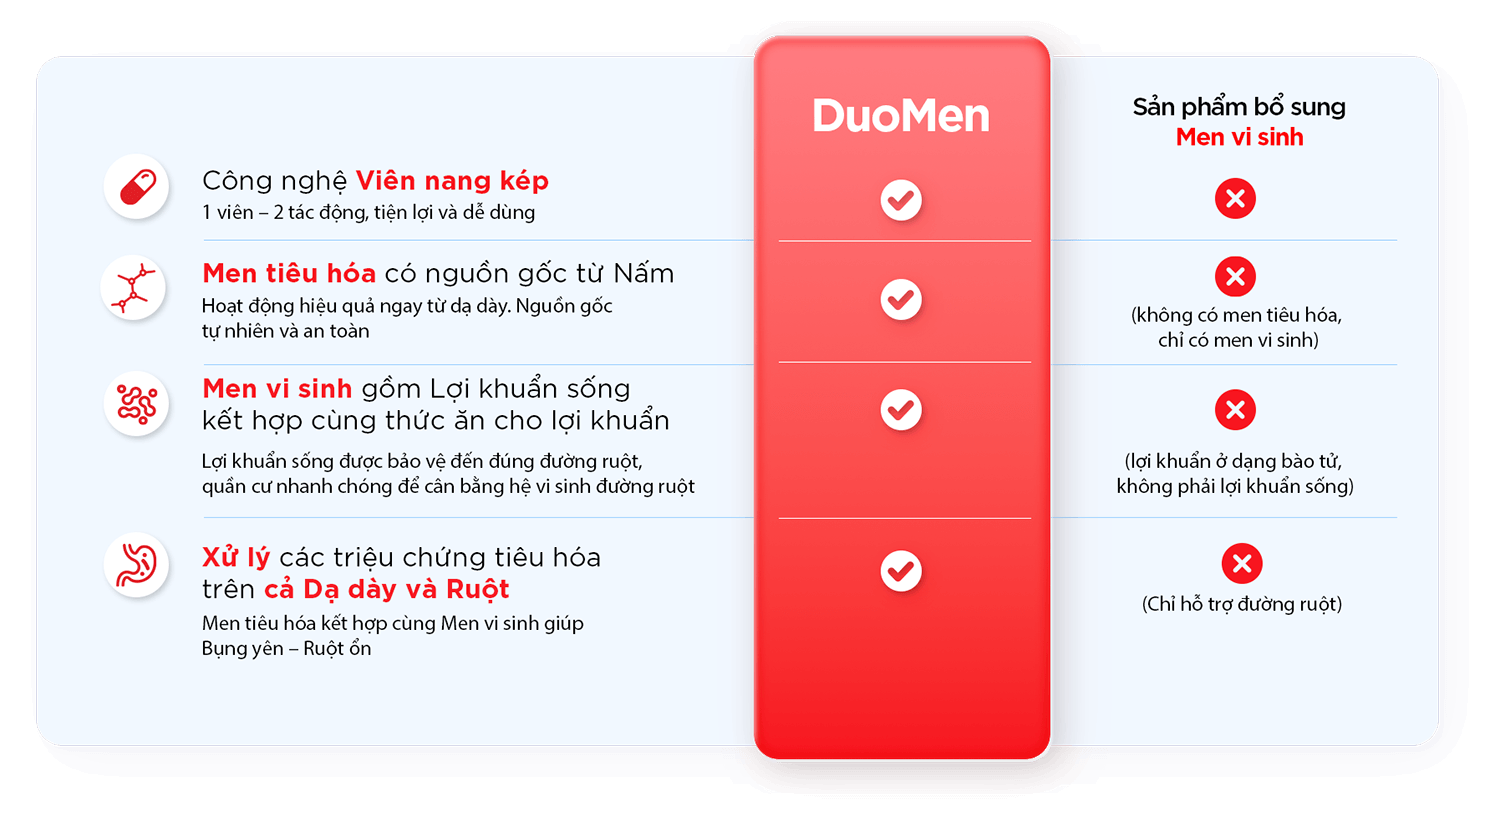
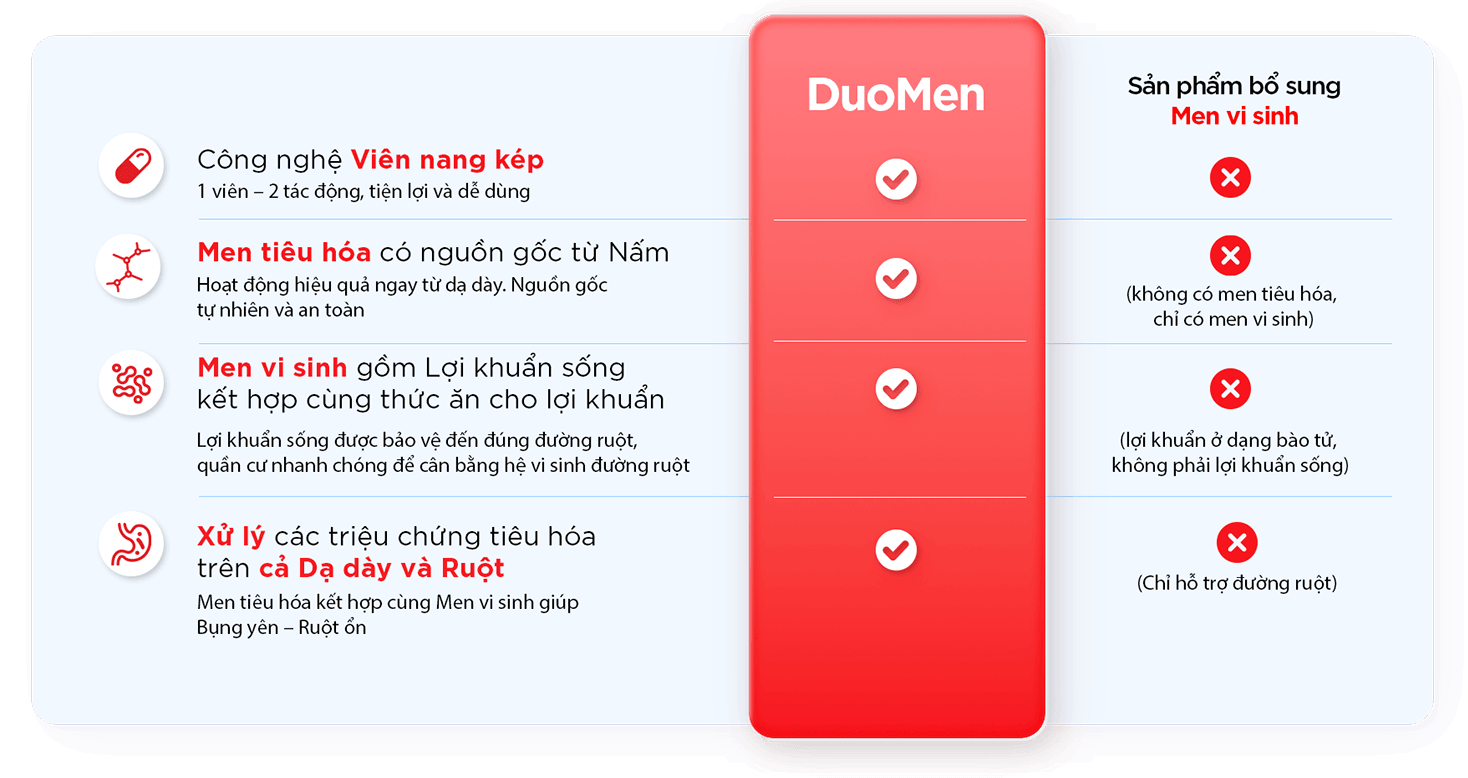
update page

diff --git a/index.html b/index.html
@@ -33,12 +33,12 @@
     <link rel="preconnect" href="https://fonts.googleapis.com">
     <link rel="preconnect" href="https://fonts.gstatic.com" crossorigin>
     <link href="https://fonts.googleapis.com/css2?family=Inter:ital,opsz,wght@0,14..32,100..900;1,14..32,100..900&display=swap" rel="stylesheet">
-    <link href="css/style.css?v=14" rel="stylesheet" media="screen" >
+    <link href="css/style.css?v=15" rel="stylesheet" media="screen" >
 </head>
 <body>
     <header class="page-header">
         <div class="main-menu">
-            <div class="logo-mb md-mobile"><img src="./images/logo-mb.png?v=14" alt=""></div>
+            <div class="logo-mb md-mobile"><img src="./images/logo-mb.png?v=15" alt=""></div>
             <div class="toggle-menu md-mobile">
                 <span></span>
                 <span></span>
@@ -57,24 +57,24 @@
         <div class="section-1">
             <div class="banner">
                 <div class="md-card card-back">
-                    <img src="./images/box-1.png?v=14" alt="" class="md-desktop">
-                    <img src="./images/box-1-mb.png?v=14" alt="" class="md-mobile">
+                    <img src="./images/box-1.png?v=15" alt="" class="md-desktop">
+                    <img src="./images/box-1-mb.png?v=15" alt="" class="md-mobile">
                     <div class="md-ico-1">
-                        <img src="./images/ico-1.png?v=14" alt="" class="ico-1">
-                        <img src="./images/ico-2.png?v=14" alt="" class="ico-2">
-                        <img src="./images/ico-3.png?v=14" alt="" class="ico-3">
-                        <img src="./images/ico-4.png?v=14" alt="" class="ico-4">
-                        <img src="./images/ico-5.png?v=14" alt="" class="ico-5">
+                        <img src="./images/ico-1.png?v=15" alt="" class="ico-1">
+                        <img src="./images/ico-2.png?v=15" alt="" class="ico-2">
+                        <img src="./images/ico-3.png?v=15" alt="" class="ico-3">
+                        <img src="./images/ico-4.png?v=15" alt="" class="ico-4">
+                        <img src="./images/ico-5.png?v=15" alt="" class="ico-5">
                     </div>
                 </div>
                 <div class="md-card card-front">
-                    <img src="./images/box-2.png?v=14" alt="" class="md-desktop">
-                    <img src="./images/box-2-mb.png?v=14" alt="" class="md-mobile"> 
+                    <img src="./images/box-2.png?v=15" alt="" class="md-desktop">
+                    <img src="./images/box-2-mb.png?v=15" alt="" class="md-mobile"> 
                     <div class="md-ico-1">
-                        <img src="./images/ico-6.png?v=14" alt="" class="ico-6">
-                        <img src="./images/ico-7.png?v=14" alt="" class="ico-7">
-                        <img src="./images/ico-8.png?v=14" alt="" class="ico-8">
-                        <img src="./images/ico-9.png?v=14" alt="" class="ico-9">
+                        <img src="./images/ico-6.png?v=15" alt="" class="ico-6">
+                        <img src="./images/ico-7.png?v=15" alt="" class="ico-7">
+                        <img src="./images/ico-8.png?v=15" alt="" class="ico-8">
+                        <img src="./images/ico-9.png?v=15" alt="" class="ico-9">
                     </div>
                 </div>
                 
@@ -83,50 +83,50 @@
         </div>
         
         <div class="section-5">
-            <img src="./images/bg-banner-2.jpg?v=14" alt="" class="md-desktop">
-            <img src="./images/bg-banner-mb.jpg?v=14" alt="" class="md-mobile">
-            <img src="./images/img-banner.png?v=14" alt="" class="img-banner md-desktop">
-            <img src="./images/tia-sang.png?v=14" alt="" class="ani-tiasang">
+            <img src="./images/bg-banner-2.jpg?v=15" alt="" class="md-desktop">
+            <img src="./images/bg-banner-mb.jpg?v=15" alt="" class="md-mobile">
+            <img src="./images/img-banner.png?v=15" alt="" class="img-banner md-desktop">
+            <img src="./images/tia-sang.png?v=15" alt="" class="ani-tiasang">
             <div class="text-3">
-                <img src="./images/text-3.png?v=14" alt="">
+                <img src="./images/text-3.png?v=15" alt="">
                 <div class="shine-sweep"></div>
             </div>
             <div class="bot-content">
                 <div class="md-hop-thuoc">
-                    <img src="./images/hop-thuoc.png?v=14" alt="" class="hop-thuoc">
-                    <img src="./images/vien-thuoc-4.png?v=14" alt="" class="vien-thuoc">
+                    <img src="./images/hop-thuoc.png?v=15" alt="" class="hop-thuoc">
+                    <img src="./images/vien-thuoc-4.png?v=15" alt="" class="vien-thuoc">
                     <a class="ctn-popup" data-fancybox="" data-src="#popup-1" href="javascript:;">
-                        <img src="./images/btn-popup.png?v=14" alt="">
+                        <img src="./images/btn-popup.png?v=15" alt="">
                     </a>
                     <div class="md-popup-1 md-popup" id="popup-1">
-                        <img src="./images/img-popup.jpg?v=14" alt="">
+                        <img src="./images/img-popup.jpg?v=15" alt="">
                     </div>
                 </div>
                 
-                <img src="./images/logo-1.png?v=14" alt="" class="sc5-logo-1 wow fadeInRight" data-wow-delay="0.5s">
-                <img src="./images/logo-2.png?v=14" alt="" class="sc5-logo-2 wow fadeInLeft" data-wow-delay="1s">
+                <img src="./images/logo-1.png?v=15" alt="" class="sc5-logo-1 wow fadeInRight" data-wow-delay="0.5s">
+                <img src="./images/logo-2.png?v=15" alt="" class="sc5-logo-2 wow fadeInLeft" data-wow-delay="1s">
             </div>
         </div>
         <div class="section-2" id="targetForm">
             
             <div class="md-content">
                 <div class="sc2-img-6">
-                    <img src="./images/vien-thuoc-5.png?v=14" alt="" class="img-vienthuoc-front">
-                    <img src="./images/vien-thuoc.png?v=14" alt="" class="img-duongvien">
-                    <img src="./images/text-1.png?v=14" alt="" class="text6-img-1">
-                    <img src="./images/text-2.png?v=14" alt="" class="text6-img-2">
+                    <img src="./images/vien-thuoc-5.png?v=15" alt="" class="img-vienthuoc-front">
+                    <img src="./images/vien-thuoc.png?v=15" alt="" class="img-duongvien">
+                    <img src="./images/text-1.png?v=15" alt="" class="text6-img-1">
+                    <img src="./images/text-2.png?v=15" alt="" class="text6-img-2">
                 </div>
-                <img src="./images/vien-thuoc-2.png?v=14" alt="" class="sc2-img-1">
-                <img src="./images/vien-thuoc-3.png?v=14" alt="" class="sc2-img-5">
-                <img src="./images/bg-duongruot-2.jpg?v=14" alt="" class="sc2-img-2 md-desktop">
-                <img src="./images/bg-duongruot-mb.jpg?v=14" alt="" class="sc2-img-2 md-mobile">
-                <img src="./images/img-duongruot.png?v=14" alt="" class="img-duongruot md-desktop">
-                <img src="./images/vien-thuoc-4.png?v=14" alt="" class="vien-thuoc-4">
-                <img src="./images/ico-vien-thuoc.png?v=14" alt="" class="ico-vien-thuoc">
-                <img src="./images/sc2-img-3.png?v=14" alt="" class="sc2-img-3 md-desktop">
-                <img src="./images/sc2-img-3-mb.png?v=14" alt="" class="sc2-img-3 md-mobile">
-                 <img src="./images/sc2-img-4.png?v=14" alt="" class="sc2-img-4 md-desktop">
-                <img src="./images/sc2-img-4-mb.png?v=14" alt="" class="sc2-img-4 md-mobile">
+                <img src="./images/vien-thuoc-2.png?v=15" alt="" class="sc2-img-1">
+                <img src="./images/vien-thuoc-3.png?v=15" alt="" class="sc2-img-5">
+                <img src="./images/bg-duongruot-2.jpg?v=15" alt="" class="sc2-img-2 md-desktop">
+                <img src="./images/bg-duongruot-mb.jpg?v=15" alt="" class="sc2-img-2 md-mobile">
+                <img src="./images/img-duongruot.png?v=15" alt="" class="img-duongruot md-desktop">
+                <img src="./images/vien-thuoc-4.png?v=15" alt="" class="vien-thuoc-4">
+                <img src="./images/ico-vien-thuoc.png?v=15" alt="" class="ico-vien-thuoc">
+                <img src="./images/sc2-img-3.png?v=15" alt="" class="sc2-img-3 md-desktop">
+                <img src="./images/sc2-img-3-mb.png?v=15" alt="" class="sc2-img-3 md-mobile">
+                 <img src="./images/sc2-img-4.png?v=15" alt="" class="sc2-img-4 md-desktop">
+                <img src="./images/sc2-img-4-mb.png?v=15" alt="" class="sc2-img-4 md-mobile">
                 <div class="md-col">
                     <div class="btn-sc2-1 show-btn share-btn" id="shareBtn">
                         <span class="text-share">Tiêu hóa chất béo</span>
@@ -193,8 +193,8 @@
                     </div>
                     <div class="md-content wow fadeInUp" data-wow-delay="0.7s">
                         <div class="sc3-img-1">
-                            <img src="./images/img-1.png?v=14" alt="" class="md-desktop ">
-                            <img src="./images/img-1-mb.png?v=14" alt="" class="md-mobile">
+                            <img src="./images/img-1.png?v=15" alt="" class="md-desktop ">
+                            <img src="./images/img-1-mb.png?v=15" alt="" class="md-mobile">
                             <!-- <div class="shine-sweep"></div> -->
                         </div>
                         
@@ -212,7 +212,7 @@
                     <div class="md-content">
                         <div class="md-col clearfix wow fadeInRight" data-wow-delay="0.5s">
                             <div class="left-col">
-                                <img src="./images/img-2.png?v=14" alt="">
+                                <img src="./images/img-2.png?v=15" alt="">
                             </div>
                             <div class="right-col">
                                 <div class="how-to-use">
@@ -225,7 +225,7 @@
                         </div>
                         <div class="md-col md-col-2 clearfix wow fadeInLeft" data-wow-delay="0.5s">
                             <div class="left-col">
-                                <img src="./images/img-3.png?v=14" alt="">
+                                <img src="./images/img-3.png?v=15" alt="">
                             </div>
                             <div class="right-col">
                                 <div class="how-to-use">
@@ -281,7 +281,7 @@
 
 
 
-                        <button class="show-more-btn" id="showMoreBtn"><img src="./images/ico-showmore.png?v=14" alt=""></button>
+                        <button class="show-more-btn" id="showMoreBtn"><img src="./images/ico-showmore.png?v=15" alt=""></button>
 
                     </div>
 
@@ -295,15 +295,15 @@
         <div class="main-content">
           
           <div id="frame-duoc-pham" class="ai-chat-container">
-             <div class="close-all-ai"><img src="./images/ico-close.png?v=14" alt=""></div>
+             <div class="close-all-ai"><img src="./images/ico-close.png?v=15" alt=""></div>
             <iframe src="https://web.e-pharmacy.vn/start-call?ref=duomen" allow="camera; microphone; display-capture" loading="lazy"></iframe>
           </div>
           <div id="frame-tro-ly" class="ai-chat-container">
-             <div class="close-all-ai"><img src="./images/ico-close.png?v=14" alt=""></div>
+             <div class="close-all-ai"><img src="./images/ico-close.png?v=15" alt=""></div>
             <iframe src="https://web.e-pharmacy.vn/ai-chat?ref=duomen" loading="lazy"></iframe>
           </div>
           <div id="frame-tu-van" class="ai-chat-container">
-             <div class="close-all-ai"><img src="./images/ico-close.png?v=14" alt=""></div>
+             <div class="close-all-ai"><img src="./images/ico-close.png?v=15" alt=""></div>
             <iframe src="https://web.e-pharmacy.vn/teleconsult?ref=duomen" loading="lazy"></iframe>
           </div>
 
@@ -314,27 +314,27 @@
     </div>
     <div class="md-ai-bot">
         <div class="ctn-button ctn-button-1 ai-btn" data-target="frame-tu-van">
-            <img src="./images/ctn-button-1.png?v=14" alt="" class="md-desktop">
-             <img src="./images/ctn-button-1-mb.png?v=14" alt="" class="md-mobile">
+            <img src="./images/ctn-button-1.png?v=15" alt="" class="md-desktop">
+             <img src="./images/ctn-button-1-mb.png?v=15" alt="" class="md-mobile">
         </div>
         
          <div class="ctn-button ctn-button-3 ai-btn" data-target="frame-duoc-pham">
-            <img src="./images/ctn-button-3.png?v=14" alt="" class="md-desktop">
-            <img src="./images/ctn-button-2-mb.png?v=14" alt="" class="md-mobile">
+            <img src="./images/ctn-button-3.png?v=15" alt="" class="md-desktop">
+            <img src="./images/ctn-button-2-mb.png?v=15" alt="" class="md-mobile">
         </div>
         <div class="ctn-button ctn-button-2 ai-btn"  data-target="frame-tro-ly">
-            <img src="./images/ctn-button-2.png?v=14" alt="" class="md-desktop">
-            <img src="./images/ctn-button-3-mb.png?v=14" alt="" class="md-mobile">
+            <img src="./images/ctn-button-2.png?v=15" alt="" class="md-desktop">
+            <img src="./images/ctn-button-3-mb.png?v=15" alt="" class="md-mobile">
         </div>
     </div>
     <footer class="footer clearfix">
     	<div class="top-footer">
             <div class="content-banner wow fadeInUp" data-wow-delay="0.5s">
-                <img src="./images/banner.jpg?v=14" alt="" class="md-desktop">
-                <img src="./images/banner-mb.jpg?v=14" alt="" class="md-mobile">
+                <img src="./images/banner.jpg?v=15" alt="" class="md-desktop">
+                <img src="./images/banner-mb.jpg?v=15" alt="" class="md-mobile">
             </div>
             <div class="bg-footer wow fadeInUp" data-wow-delay="0.2s">
-                <img src="./images/bg-footer.jpg?v=14" alt="">
+                <img src="./images/bg-footer.jpg?v=15" alt="">
                 <p>Sản phẩm đã có mặt tại các Bệnh viện, Nhà thuốc chuỗi và các nhà thuốc lớn, uy tín trên toàn quốc</p>
             </div>
         </div>
@@ -344,9 +344,9 @@
                 <div class="footer-content">
                     
                     <div class="footer-column social-links wow fadeInLeft" data-wow-delay="0.5s">
-                        <a href="https://www.facebook.com/viennangkepDuo" target="_Blank"><img src="./images/ico-fb.png?v=14" alt=""><span>viennangkepDuo</span></a>
-                        <a href="https://www.tiktok.com/@duomen.official" target="_Blank"><img src="./images/ico-tiktok.png?v=14" alt=""><span>duomen.official</span></a>
-                        <a href="https://zalo.me/2509048246650677428" target="_Blank"><img src="./images/ico-zalo.png?v=14" alt=""><span>Enzymax Duo Biotics</span></a>
+                        <a href="https://www.facebook.com/viennangkepDuo" target="_Blank"><img src="./images/ico-fb.png?v=15" alt=""><span>viennangkepDuo</span></a>
+                        <a href="https://www.tiktok.com/@duomen.official" target="_Blank"><img src="./images/ico-tiktok.png?v=15" alt=""><span>duomen.official</span></a>
+                        <a href="https://zalo.me/2509048246650677428" target="_Blank"><img src="./images/ico-zalo.png?v=15" alt=""><span>Enzymax Duo Biotics</span></a>
                     </div>
 
                     <div class="footer-column company-info wow fadeInLeft" data-wow-delay="0.7s">
@@ -504,7 +504,7 @@
                     </div>
 
                     <div class="footer-column logo-area wow fadeInLeft" data-wow-delay="0.9s">
-                        <a href="#"><img src="./images/logo-footer.png?v=14" alt=""></a>
+                        <a href="#"><img src="./images/logo-footer.png?v=15" alt=""></a>
                     </div>
 
                 </div>
@@ -519,5 +519,5 @@
 <script src="vendor/fancybox/jquery.fancybox.min.js" type="text/javascript" ></script>
 <script src="vendor/semantic/semantic.js" type="text/javascript" ></script>
 <script src="vendor/semantic/semantic.min.js" type="text/javascript" ></script>
-<script src="scripts/main.js?v=14"></script>
+<script src="scripts/main.js?v=15"></script>
 </html>

diff --git a/css/style.css b/css/style.css
@@ -976,9 +976,9 @@ img{
 }
 .section-2 .img-vienthuoc-front {
     position: absolute;
-    left: 26%;
-    top: 26%;
-    width: 50%;
+    left: 31%;
+    top: 31%;
+    width: 40%;
     opacity: 0;
      
 }